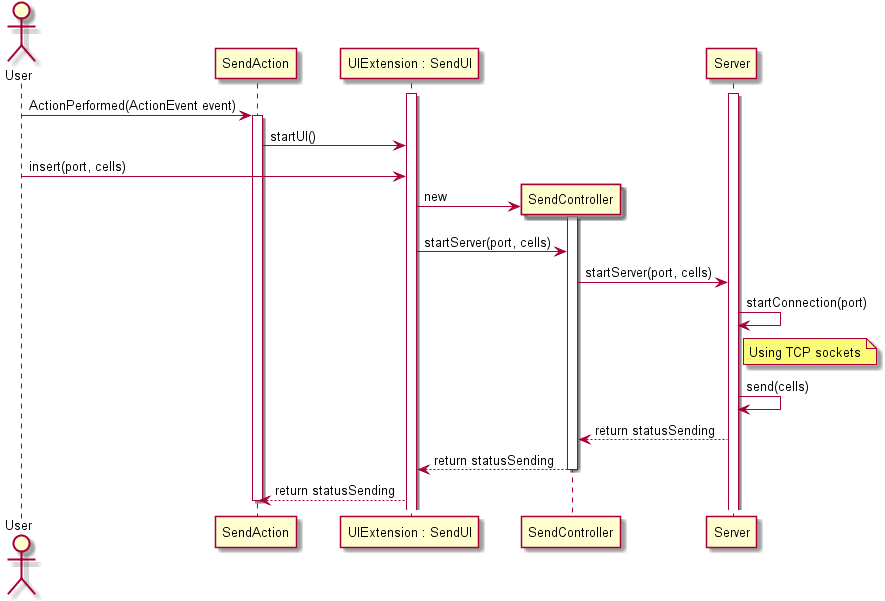
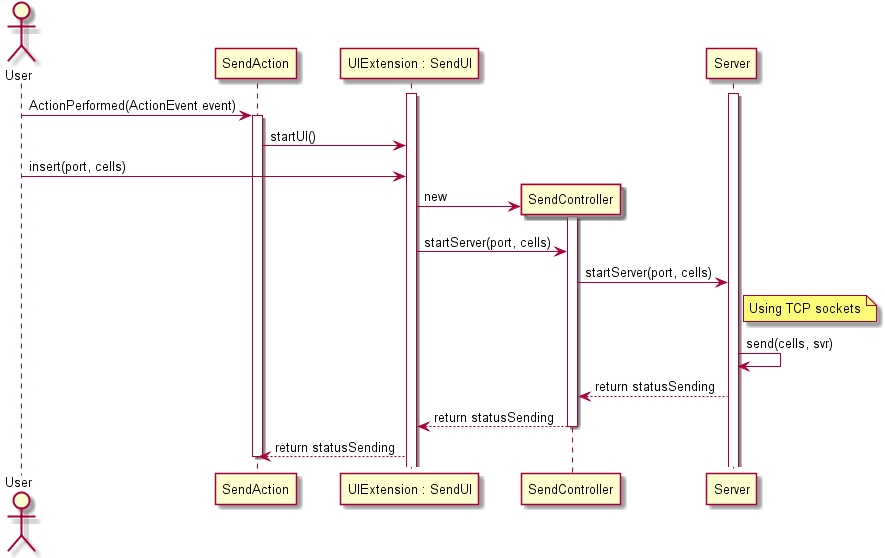
1100859: Created server and client sockets. Updated sequence diagrams ref #1 #2

diff --git a/src/csheets/ext/share/core/Client.java b/src/csheets/ext/share/core/Client.java
@@ -1,5 +1,11 @@
 package csheets.ext.share.core;
 
+import java.io.IOException;
+import java.net.*;
+import java.util.logging.Level;
+
+import com.sun.istack.internal.logging.Logger;
+
 import csheets.core.Cell;
 
 /**
@@ -22,22 +28,24 @@ public class Client {
      */
     public boolean startClient(String IP, int port, Cell cellStart) {
 
-	startClient(IP, port);
-	receive(cellStart);
+	try {
+	    Socket cli = new Socket(IP, port);
+	    receive(cellStart, cli);
+	} catch (UnknownHostException e) {
+	    Logger.getLogger(getClass()).log(Level.SEVERE, null, e);
 
-	System.out.println(IP + ":" + port);
-	System.out.println(cellStart.getContent());
+	    return false;
+	} catch (IOException e) {
+	    Logger.getLogger(getClass()).log(Level.SEVERE, null, e);
+
+	    return false;
+	}
 
 	return true;
     }
 
-    private void receive(Cell cellStart) {
+    private void receive(Cell cellStart, Socket cli) {
 	// TODO receive cells using network
-	throw new UnsupportedOperationException("Not supported yet.");
-    }
-
-    private void startClient(String iP, int port) {
-	// TODO create client
 	throw new UnsupportedOperationException("Not supported yet.");
     }
 

diff --git a/src/csheets/ext/share/core/Server.java b/src/csheets/ext/share/core/Server.java
@@ -1,5 +1,11 @@
 package csheets.ext.share.core;
 
+import java.io.IOException;
+import java.net.ServerSocket;
+import java.util.logging.Level;
+
+import com.sun.istack.internal.logging.Logger;
+
 import csheets.core.Cell;
 
 /**
@@ -20,18 +26,21 @@ public class Server {
      * @return the result of the connection
      */
     public boolean startServer(int port, Cell[][] cells) {
-	startConnection(port);
-	send(cells);
+
+	try {
+	    ServerSocket svr = new ServerSocket(port);
+	    send(cells, svr);
+	} catch (IOException e) {
+	    Logger.getLogger(getClass()).log(Level.SEVERE, null, e);
+
+	    return false;
+	}
+
 	return true;
     }
 
-    private void send(Cell[][] cells) {
-	// TODO create server
-	throw new UnsupportedOperationException("Not supported yet.");
-    }
-
-    private void startConnection(int port) {
-	// TODO send cells using network
+    private void send(Cell[][] cells, ServerSocket svr) {
+	// TODO send cells
 	throw new UnsupportedOperationException("Not supported yet.");
     }
 }

diff --git a/src/csheets/ext/share/package-info.java b/src/csheets/ext/share/package-info.java
@@ -160,11 +160,10 @@
  activate sc
  sui -> sc : startServer(port, cells)
  sc -> svr : startServer(port, cells)
- svr -> svr : startConnection(port)
  note right svr
  Using TCP sockets
  end note
- svr -> svr : send(cells)
+ svr -> svr : send(cells, svr)
  svr --> sc : return statusSending
  sc --> sui : return statusSending
  deactivate sc
@@ -192,11 +191,10 @@
  activate rc
  rui -> rc : startClient(IP, port, cell)
  rc -> cli : startClient(IP, port, cell)
- cli -> cli : startClient(IP, port)
  note right cli
  Using TCP sockets
  end note
- cli -> cli : receive(cell)
+ cli -> cli : receive(cell, cli)
  cli --> rc : return statusReceiving
  rc --> rui : return statusReceiving
  deactivate rc
